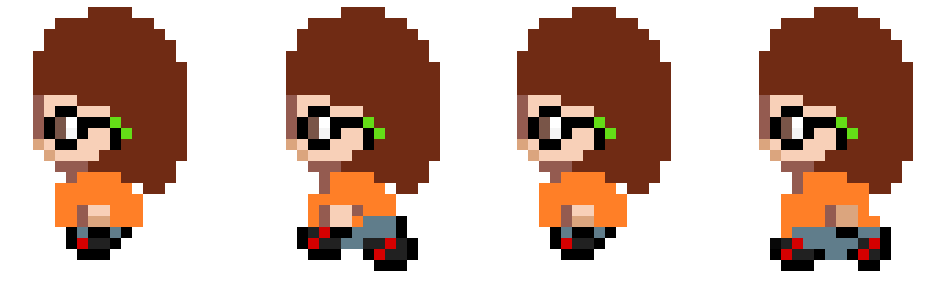
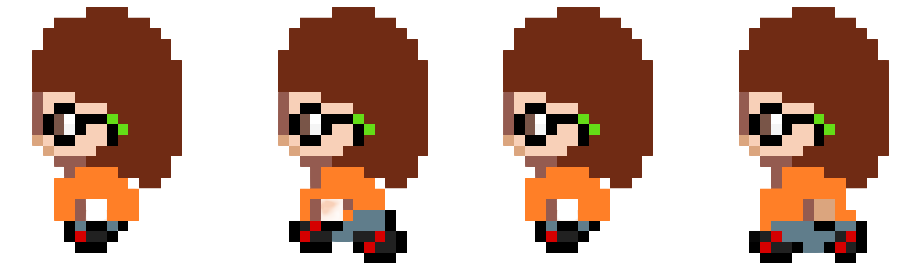
shop

diff --git a/main.py b/main.py
@@ -31,8 +31,10 @@ class Shop:
         self.image = self.frames[0]
         self.image2 = self.frames[16]
         self.choice_rect_x, self.choice_rect_y = 270, 550
+        self.rect_surf_active = pg.Surface((125, 8))
+        self.rect_surf_active.fill('yellow')
         self.rect_surf = pg.Surface((125, 8))
-        self.rect_surf.fill('yellow')
+        self.rect_surf.fill('black')
 
 
     def terminate(self):
@@ -78,19 +80,34 @@ class Shop:
                             pg.mixer.music.set_volume(self.vol)
                 if event.type == pg.QUIT:
                     self.terminate()
-                elif (event.type == pg.KEYUP or event.type == pg.MOUSEBUTTONUP):
+                elif event.type == pg.MOUSEBUTTONUP:
                     self.click_button_music('up')
-                elif (event.type == pg.KEYDOWN or event.type == pg.MOUSEBUTTONDOWN):
+                elif event.type == pg.MOUSEBUTTONDOWN:
                     self.click_button_music('down')
                     if self.check_pos(pg.mouse.get_pos()) == 'orange':
-                        self.choice_rect_x = 420
-                    elif self.check_pos(pg.mouse.get_pos()) == 'black':
+                        self.choice_rect_x_active = 420
                         self.choice_rect_x = 270
+                    elif self.check_pos(pg.mouse.get_pos()) == 'black':
+                        self.choice_rect_x_active = 270
+                        self.choice_rect_x = 420
+                elif event.type == pg.KEYDOWN:
+                    if event.key == pg.K_ESCAPE:
+                        menu = Menu()
+                        menu.start_screen()
+                        break
+                if settings.active_skin == 'black':
+                    self.choice_rect_x_active = 270
+                    self.choice_rect_x = 420
+                else:
+                    self.choice_rect_x_active = 420
+                    self.choice_rect_x = 270
             #self.screen.blit(skin_1, (250, HEIGHT // 2))
             #self.screen.blit(skin_2, (400, HEIGHT // 2))
             if settings.active_skin == 'orange':
+                self.screen.blit(self.rect_surf_active, (self.choice_rect_x_active, self.choice_rect_y))
                 self.screen.blit(self.rect_surf, (self.choice_rect_x, self.choice_rect_y))
             elif settings.active_skin == 'black':
+                self.screen.blit(self.rect_surf_active, (self.choice_rect_x_active, self.choice_rect_y))
                 self.screen.blit(self.rect_surf, (self.choice_rect_x, self.choice_rect_y))
 
             pg.display.flip()
@@ -162,13 +179,17 @@ class Levels:
                         if self.vol != 0:
                             self.vol = self.vol - 0.1
                             pg.mixer.music.set_volume(self.vol)
-                    if event.key == pg.K_EQUALS:
+                    elif event.key == pg.K_ESCAPE:
+                        menu = Menu()
+                        menu.start_screen()
+                        break
+                    elif event.key == pg.K_EQUALS:
                         if self.vol <= 2:
                             self.vol = self.vol + 0.1
                             pg.mixer.music.set_volume(self.vol)
                 if event.type == pg.QUIT:
                     self.terminate()
-                elif (event.type == pg.KEYUP or event.type == pg.MOUSEBUTTONUP):
+                elif event.type == pg.MOUSEBUTTONUP:
                     self.click_button_music('up')
                     if self.check_pos(pg.mouse.get_pos()) == 'level_1':
                         self.map_name = 'map.tmx'
@@ -269,7 +290,7 @@ class Menu:
                             pg.mixer.music.set_volume(self.vol)
                 if event.type == pg.QUIT:
                     self.terminate()
-                elif (event.type == pg.KEYUP or event.type == pg.MOUSEBUTTONUP):
+                elif event.type == pg.MOUSEBUTTONUP:
                     self.click_button_music('up')
                     if self.check_pos(pg.mouse.get_pos()) == 'Play':
                         levels = Levels()
@@ -368,8 +389,8 @@ class Game:
             self.screen.blit(sprite.image, self.camera.apply(sprite))
         for sprite in self.medthings:
             self.screen.blit(sprite.image, self.camera.apply(sprite))
-        for sprite in self.enemies:
-            self.screen.blit(sprite.image, self.camera.apply(sprite))
+        # for sprite in self.enemies:
+        #     self.screen.blit(sprite.image, self.camera.apply(sprite))
         #for sprite in self.sword:
         #    self.screen.blit(sprite.image, self.camera.apply(sprite))
         self.snow_animation()

diff --git a/sprites.py b/sprites.py
@@ -67,12 +67,18 @@ class Player(pg.sprite.Sprite):
         self.money_music.set_volume(1.0)
         self.game = game
         self.clock = pg.time.Clock()
-        self.frames = []
         self.first_count = 0
         self.second_count = 0
-        cut_sheet(load_image("testPersonRight.png"), 4, 1, self.frames)
-        cut_sheet(load_image("testPersonLeft.png"), 4, 1, self.frames)
-        cut_sheet(load_image("testPersonClimb.png"), 4, 1, self.frames)
+        if settings.active_skin == 'black':
+            self.frames = []
+            cut_sheet(load_image("testPersonRight.png"), 4, 1, self.frames)
+            cut_sheet(load_image("testPersonLeft.png"), 4, 1, self.frames)
+            cut_sheet(load_image("testPersonClimb.png"), 4, 1, self.frames)
+        elif settings.active_skin == 'orange':
+            self.frames = []
+            cut_sheet(load_image("testPersonRightOrange.png"), 4, 1, self.frames)
+            cut_sheet(load_image("testPersonLeftOrange.png"), 4, 1, self.frames)
+            cut_sheet(load_image("testPersonClimbOrange.png"), 4, 1, self.frames)
         self.image = self.frames[4]
         self.rect = self.image.get_rect()
         self.vx, self.vy = 0, 0
